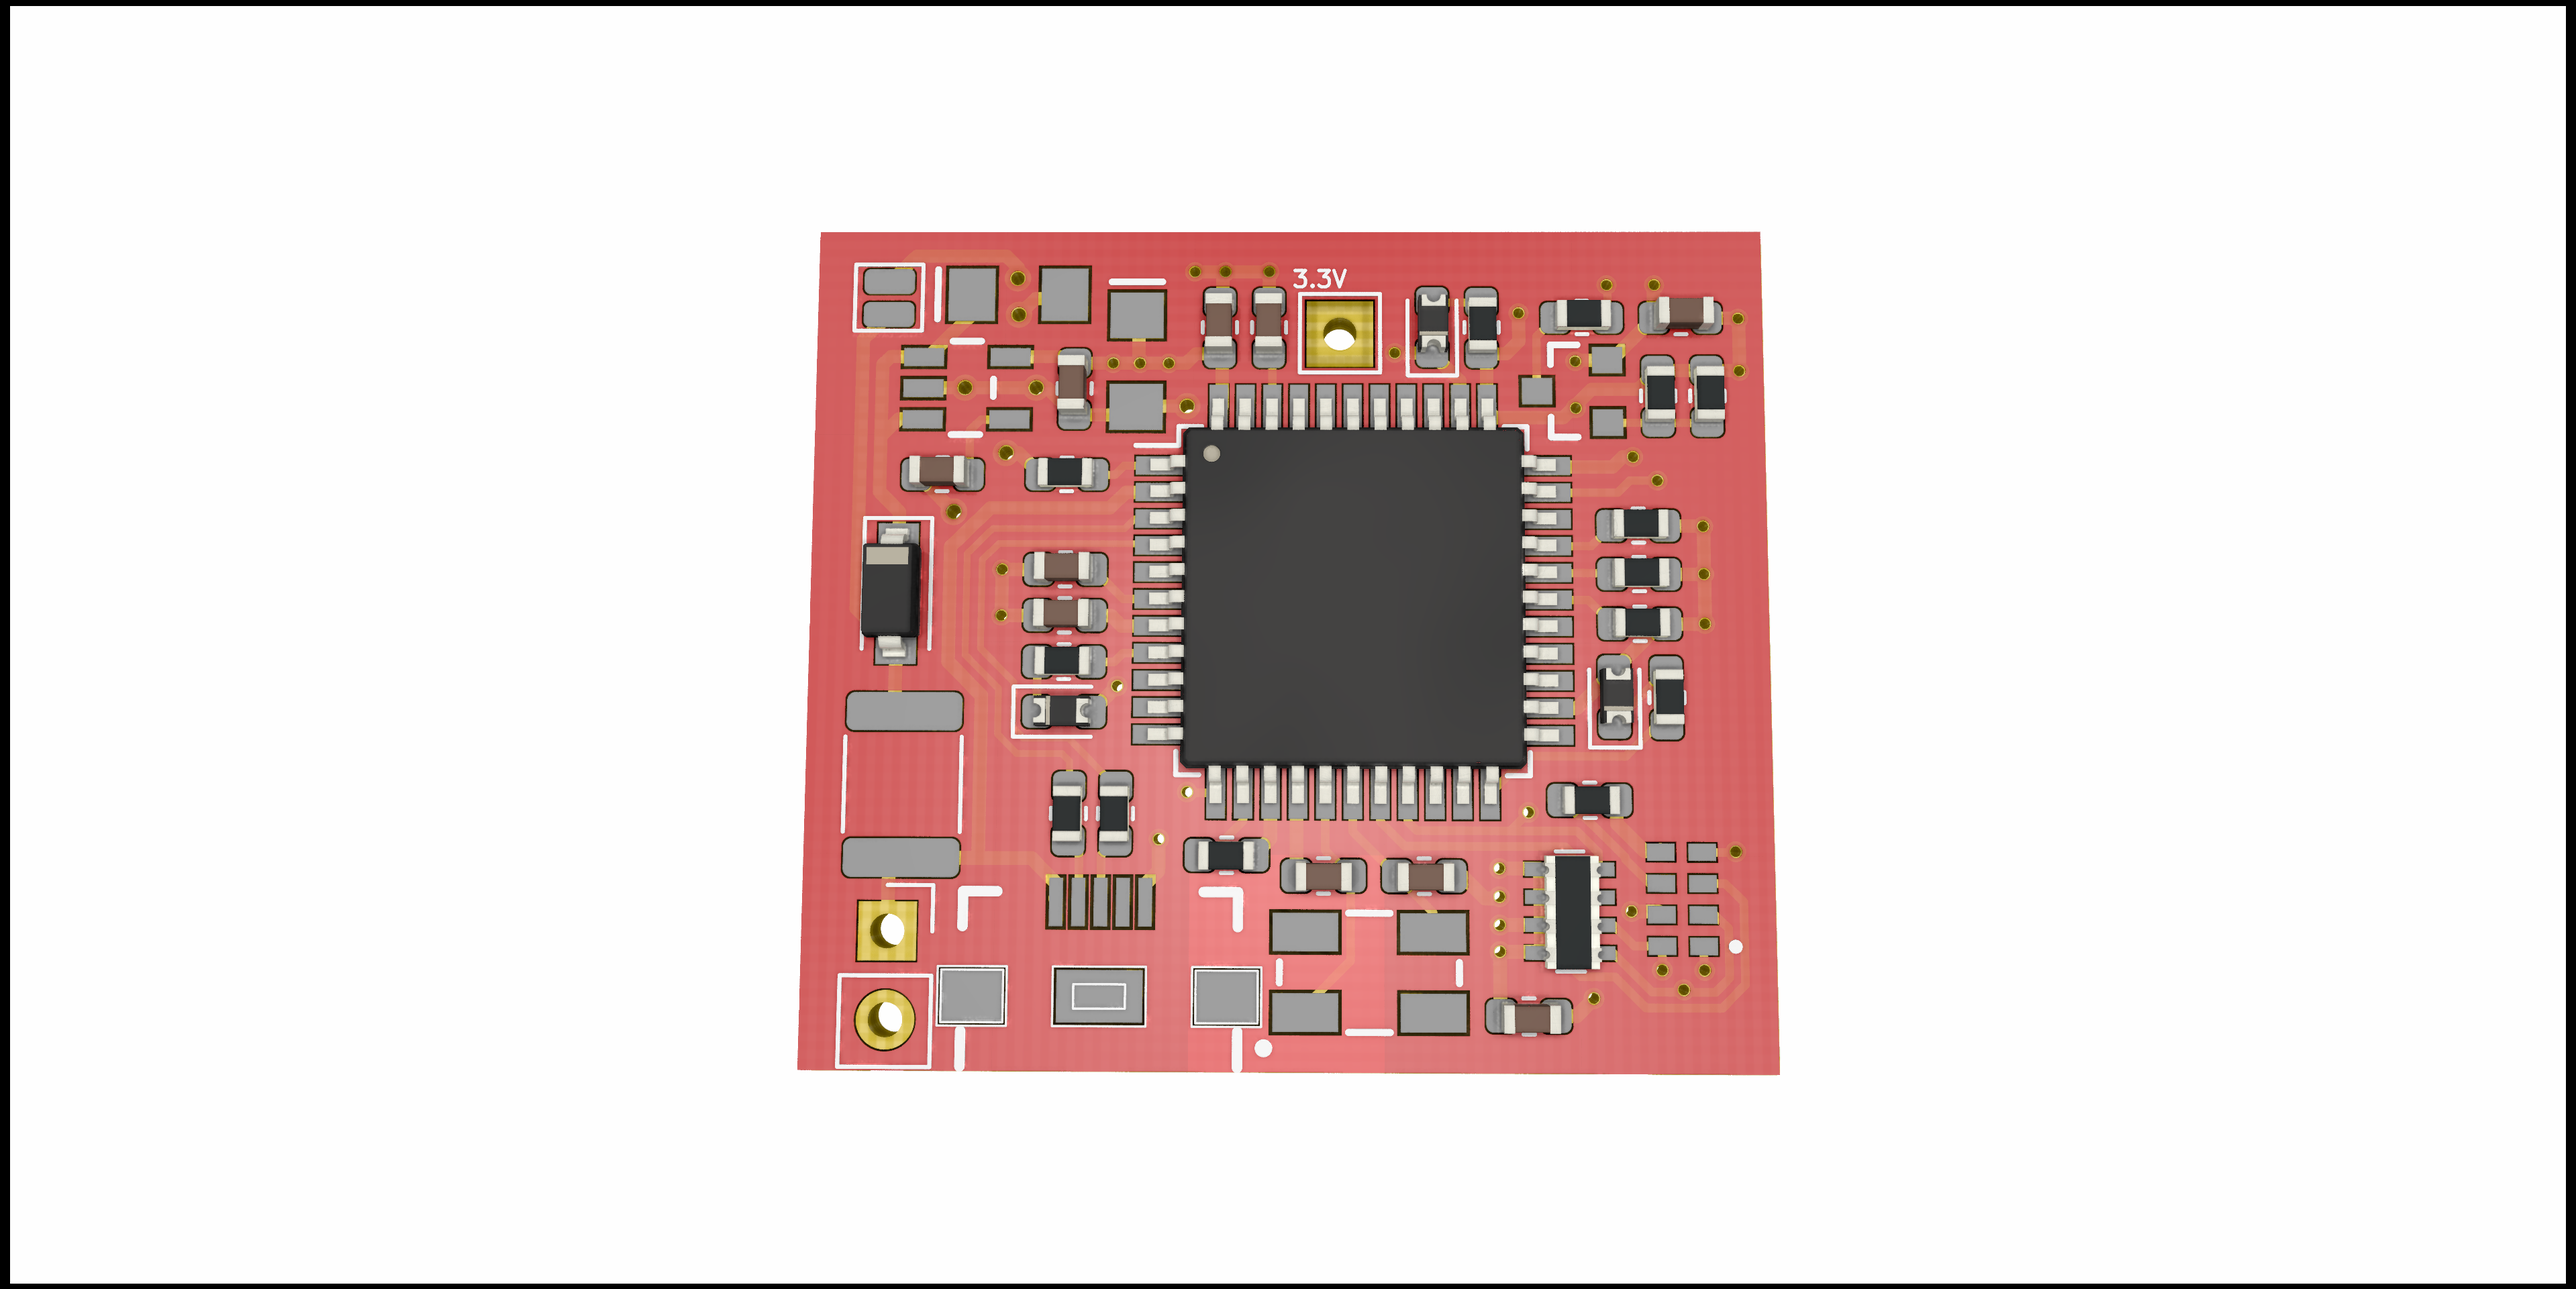
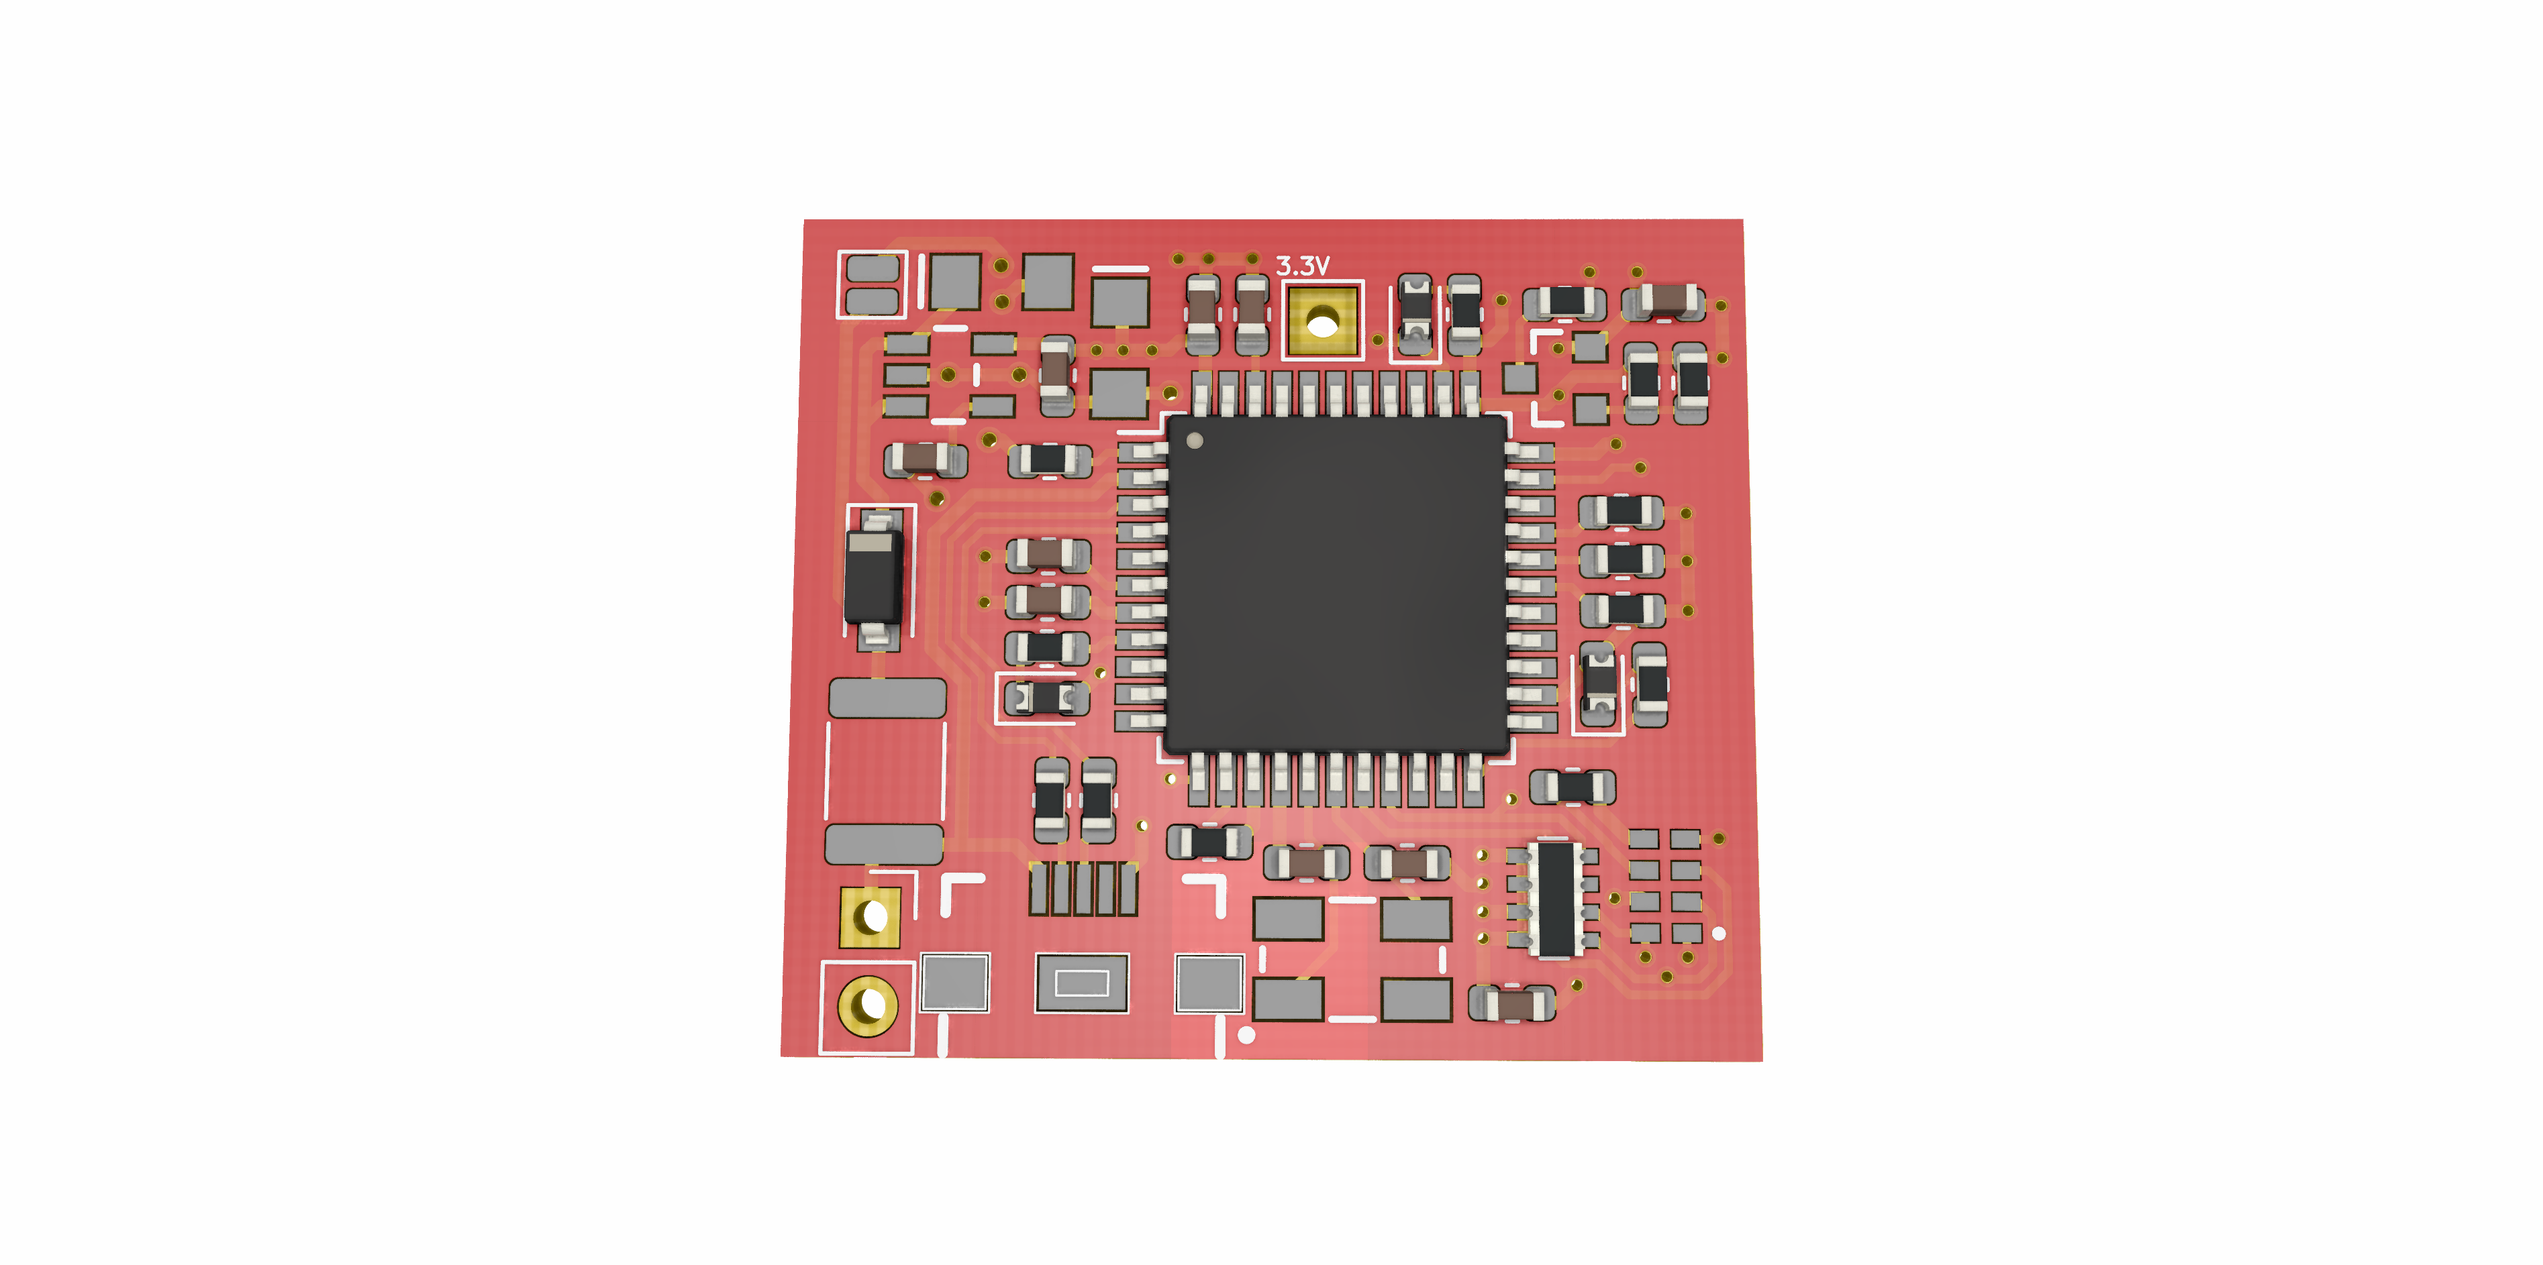
img

Changed region(s): [[0.3114, 0.1538, 0.6851, 0.8611], [0.0, 0.0, 1.0, 1.0]]

diff --git a/README.md b/README.md
@@ -41,7 +41,8 @@ Schedule
 | Review                |            |            |				|
 
 Schematic and PCB
+========
 
-<img src="https://github.com/AFLProjects/Arduino-Smart-Watch/blob/main/img/img3.PNG" alt="drawing" width="500"/>
-<img src="https://github.com/AFLProjects/Arduino-Smart-Watch/blob/main/img/schematic.PNG" alt="drawing" width="500"/>
+<img src="https://github.com/AFLProjects/Arduino-Smart-Watch/blob/main/img/img3.PNG" alt="drawing" width="1000"/>
+<img src="https://github.com/AFLProjects/Arduino-Smart-Watch/blob/main/img/schematic.PNG" alt="drawing" width="1000"/>
 
